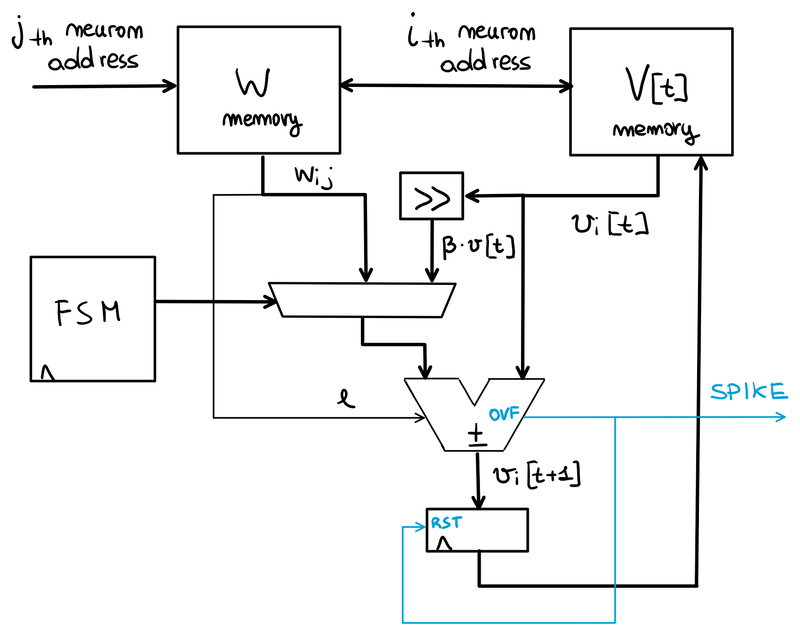
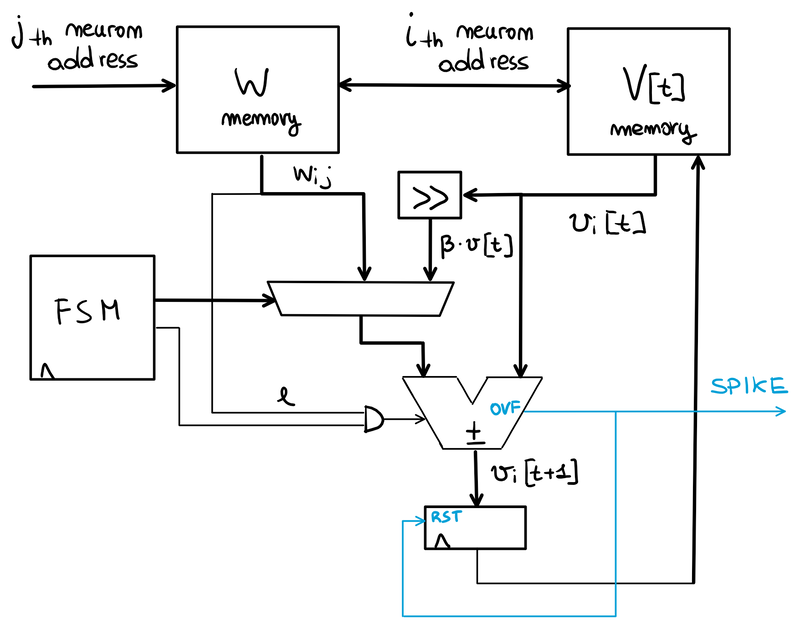
Final version?

diff --git a/content/blog/spiking_neurons.md b/content/blog/spiking_neurons.md
@@ -85,39 +85,45 @@ Now our neuron is able to accumulate spikes but we need to differentiate between
 
 This FSM, given the operation to be executed on the $i$-neuron, controls the adder properly to add or subtract the synapse current. However, does this design make sense?
 
-Inhibitory and excitatory neurons are chosen at **chip programming time**. This means that the neuron kind does not change during operation (however, we'll see that even if it does, it is not a problem for the solution we are about to propose). Hence, we can **embed this information** in the neuron description, **adding a bit to the synapse weight** that, depending on its value, denotes that neuron as excitatory or inhibitory.
+Inhibitory and excitatory neurons are chosen at **chip programming time**. This means that the neuron kind does not change during operation (however, with the solution we are about to propose, it would not be a problem to change the neuron type on-the-fly). Hence, we can **embed this information** in the neuron description, **adding a bit to the synapse weight** that, depending on its value, denotes that neuron as excitatory or inhibitory.
 
 ![synapse-encoding](/images/blog/spiking_neurons/synapse-encoding.png)
 
-Given $n$ bits of quantization for the synapse, we add a bit denoted with $e$ that identifies the neuron type: if it is **excitatory**, $e=1$ and the weights is **added**; is it is **inhibitory**, $e=0$ and the weight is **subtracted**. In this way, the $e$ field of the synapse can be used to drive directly the adder. 
+Given $n$ bits of quantization for the synapse, we add a bit denoted with $e$ that identifies the neuron type: if it is **excitatory**, $e=1$ and the weight is **added**; is it is **inhibitory**, $e=0$ and the weight is **subtracted**. In this way, **the $e$ field of the synapse can be used to drive directly the adder**. 
 
 ![modified-adder](/images/blog/spiking_neurons/modified-adder.png)
 
 # Leakage 
 
-Now we have to have to introduce the characteristic feature of the LIF neuron: the **leakage**! Being this proportional to the membrane potential, we shall choose a (constant) leakage factor $\beta$ and multiply it by $v_{i}[t]$ to obtain $v_{i}[t+1]$.
+Let us introduce the characteristic feature of the LIF neuron: the **leakage**! Being this proportional to the membrane potential, we shall choose a (constant) leakage factor $\beta$ and multiply it by $v_{i}[t]$ to obtain $v_{i}[t+1]$.
 $$ v_{i}[t+1] = \beta \cdot v_{i}[t] $$ 
-However, multiplication is an **expensive** operation in hardware; furthermore, the leakage factor is smaller than one, so we would need to perform a **fixed-point multiplication** or, even worse, a **division**! How to solve this?
+However, multiplication is an **expensive** operation in hardware; furthermore, the leakage factor is **smaller than one**, so we would need to perform a **fixed-point multiplication** or, even worse, a **division**! How to solve this?
 
 Well, if the leakage factor $\beta$ is a power of $\frac{1}{2}$, such as $2^{-n}$, the multiplication becomes **equivalent to a $n$-positions right shift**! A really **hardware-friendly** operation! 
 
 ![leak](/images/blog/spiking_neurons/leak.png)
 
+In this circuit, an $n$-positions righ-shift block is added to obtain $\beta \cdot v_{i}[t]$ out the $v_{i}[t]$ read from the potentials memory. A **multiplexer** is introduced to choose if the synapse weight $w_{ij}$ is put in input to the added or the leakage contribution $\beta \cdot v_{i}[t]$.
+
+Notice that leakage has to be always subtracted. Hence, we would need to modify the adder control signal so that a subtraction is performed when a leakage operation is required. A possible idea is to use a signal from the FSM and a logic AND gate to force the adder control signal to 0 during a leakage operation.
+
+![subtract-leak](/images/blog/spiking_neurons/subtract-leak.png)
+
 # Spike mechanism 
 
-Well, our neuron needs to spike! If this is encoded as a logic one, given a threshold $\theta$, we simply need to **compare $v_{i}[t]$ to $\theta$** and generate a logic 1 in output **when the membrane potential is equal or larger than the threshold**. This can be implemented using a **comparator**. 
+Well, our neuron needs to spike! If this is encoded as a logic one, given a threshold $\theta$, we simply need to **compare $v_{i}[t]$ to $\theta$** and generate a logic 1 in output **when the membrane potential larger than the threshold**. This can be implemented using a **comparator**. 
 
 ![spike](/images/blog/spiking_neurons/spike.png)
 
-The output of the comparator is used directly as spike bit.
+The output of the comparator is used directly as **spike bit**.
 
-The membrane has to be **reset** when the neuron spikes; hence, we need to subtract $\theta$ from $v_{i}[t]$ when the neuron fires. This can be done by driving the input multiplexer of the membrane register to provide $\theta$ in input to the adder and perform a subtraction.
+The membrane has to be **reset** when the neuron spikes; hence, we need to **subtract $\theta$ from $v_{i}[t]$ when the neuron fires**. This can be done by driving the input multiplexer of the membrane register to provide $\theta$ in input to the adder and perform a subtraction.
 
 ![reset](/images/blog/spiking_neurons/reset.png)
 
 However, do we need all this hardware? We can be smarter than this:
-- by choosing $\theta = 2^m-1$, where $m$ is the bitwidth of the membrane register and the adder, having $v_{i}[t] \geq \theta$ is **equivalent to having an overflow in the addition**. Hence, the comparation result is equal to the **overflow flag** of the adder, and it can be provided as spike bit.
-- instead of subtracting $\theta$ from the membrane register, we can save an operation by simply **resetting** $v_{i}[t]$ to 0 when a spike occurs; this is equivalent to using the oveflow flag of the adder as **reset signal for the membrane register**. This should not be done in an actual implementation: at least a register should be used to prevent glitches in the adder circuit from resetting the membrane register when it should not be.
+- by choosing $\theta = 2^m-1$, where $m$ is the bitwidth of the membrane register and the adder, having $v_{i}[t] \gt \theta$ is **equivalent to having an overflow in the addition**. Hence, the comparation result is equal to the **overflow flag** of the adder, and it can be provided as spike bit.
+- instead of subtracting $\theta$ from the membrane register, we can save an operation by simply **resetting** $v_{i}[t]$ to 0 when a spike occurs; this is equivalent to using the oveflow flag of the adder as **reset signal for the membrane register**. This should not be done in an actual implementation: at least a register should be used on the reset signal of the membrane register to prevent glitches in the adder circuit from resetting it when it should not.
 
 The resulting circuit is the following.
 
@@ -127,7 +133,10 @@ Way simpler!
 
 # Conclusion
 
-Here we are, with a first prototype of our LIF array digital circuit. In the next episodes, I plan to make it actually work (we'll see) and provide a Verilog implementation. Of course, we will use only open source tools :) 
+Here we are, with a first prototype of our LIF array digital circuit. In the next episode:
+- we will make it actually work. 
+- we will implement it in Verilog. 
+- we will simulate it using open source tools.
 
 # Bibliography
 
